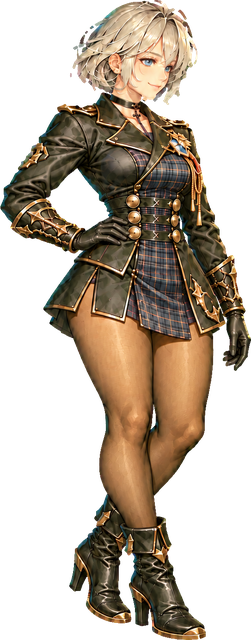
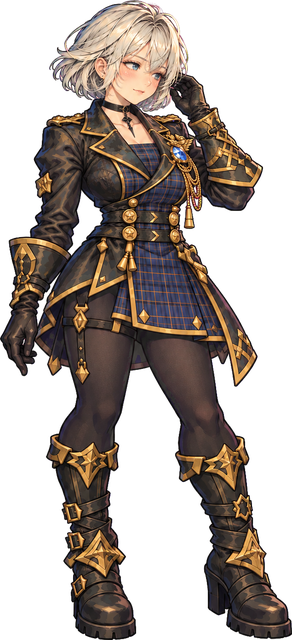
リリィの全身の立ち絵・マップの絵を新しい元絵に（顔の枠の位置も合わせた）
Claude-Session: https://claude.ai/code/session_01U4ZkdJPiZNB23AekuRSa8C

diff --git a/terrain/main.js b/terrain/main.js
@@ -625,7 +625,7 @@ function walkAllies(dt) { const now = performance.now();
     setWalkPose(a, true, now); }
 }
 const faceTex = {}, faceURL = {}, faceRaw = {};
-const FACE = { mina: [178, 74, 56], garou: [247, 50, 58], sera: [150, 64, 54], ranka: [180, 62, 56], lily: [140, 62, 50] }; // 立ち絵の顔の中心と半径（画素）
+const FACE = { mina: [178, 74, 56], garou: [247, 50, 58], sera: [150, 64, 54], ranka: [180, 62, 56], lily: [140, 74, 52] }; // 立ち絵の顔の中心と半径（画素）
 async function makeFace(k) { // 立ち絵の顔を丸く切り抜いて、金の縁をつける
   const im = await loadImage(`../ally/${k}.png`); if (!im) return null; const c = document.createElement('canvas'); c.width = c.height = 128; const g = c.getContext('2d');
   g.fillStyle = '#2a1a0c'; g.beginPath(); g.arc(64, 64, 60, 0, 7); g.fill(); g.save(); g.beginPath(); g.arc(64, 64, 54, 0, 7); g.clip();

diff --git a/terrain/index.html b/terrain/index.html
@@ -42,5 +42,5 @@ html,body{margin:0;height:100%;background:#0d1a10;overflow:hidden;touch-action:n
 </script>
 <canvas id="gl"></canvas>
 <div id="hud" style="display:none"></div><div id="st"></div>
-<script type="module" src="main.js?v=1793700000"></script>
+<script type="module" src="main.js?v=1793710000"></script>
 </body></html>
